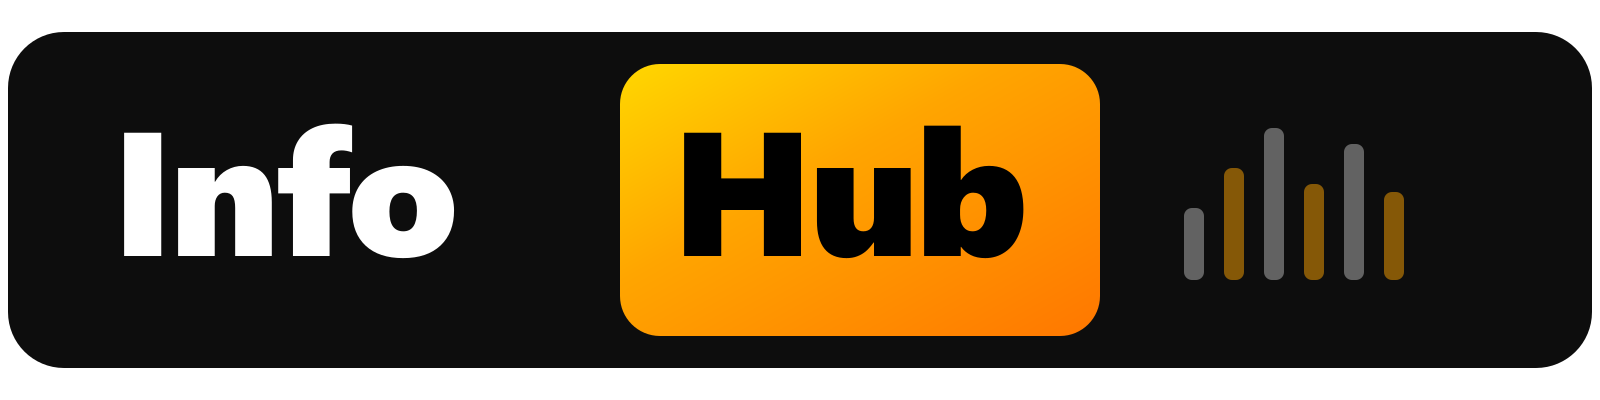
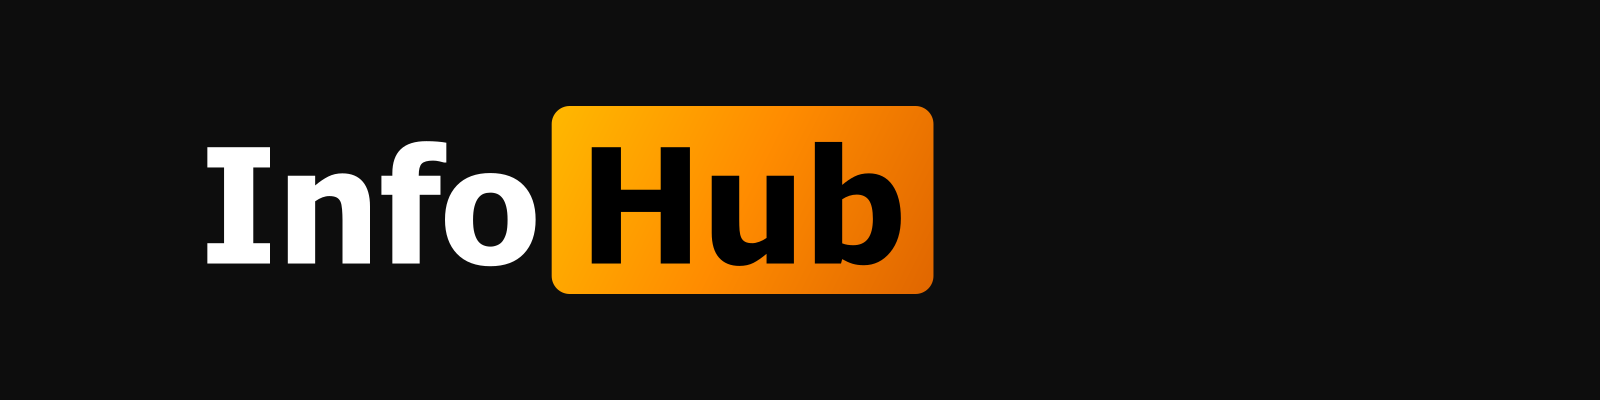
fix: regenerate wordmark PNG matching Info[Hub] badge style

diff --git a/src/app/brand/page.tsx b/src/app/brand/page.tsx
@@ -161,7 +161,7 @@ export default function BrandPage() {
             {/* Wordmark Logo */}
             <div className="bg-white/[0.04] border border-white/[0.06] rounded-xl p-8">
               <div className="bg-hub-darker rounded-xl p-12 mb-6 flex items-center justify-center">
-                <Logo variant="full" size="xl" />
+                <img src="/infohub-wordmark.png" alt="InfoHub Wordmark" className="h-16 object-contain" />
               </div>
               <div className="flex items-center justify-between">
                 <div>
